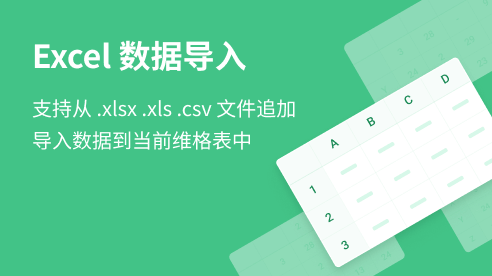
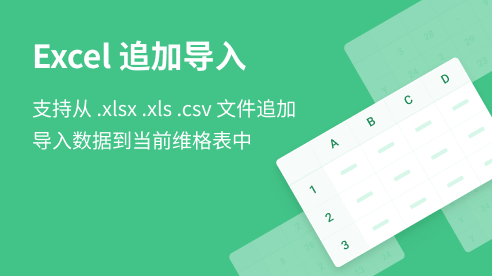
修改小程序名称和封面图

Changed region(s): [[0.2439, 0.1449, 0.3659, 0.2609]]

diff --git a/README.md b/README.md
@@ -1,12 +1,12 @@
-# 维格小程序 - Excel 导入
+# 维格小程序 - Excel追加导入
 
 可以从 .xlsx .csv .xls 文件追加导入更多数据
 
 ## 📄 使用指南
 
 导入文件的首列标题需要和被导入的维格表内的列标题一致，示例如下：
-![vika_field.png](https://oss.xukecheng.tech/image/png/1646017424.png)
-![excel_field.png](https://oss.xukecheng.tech/image/png/1646709258.png)
+![vika_field.png](https://s1.vika.cn/space/2022/03/18/6015eaf7c82a47d59b7bb716d9d30a85?attname=image.png)
+![excel_field.png](https://s1.vika.cn/space/2022/03/18/9e3aacadaa8f4703bb2517a6036213a9?attname=image.png)
 
 模板示例：https://vika.cn/share/shrzWKKTvijSdqyE0EAlB/fodFCh1bgBuhe
 
